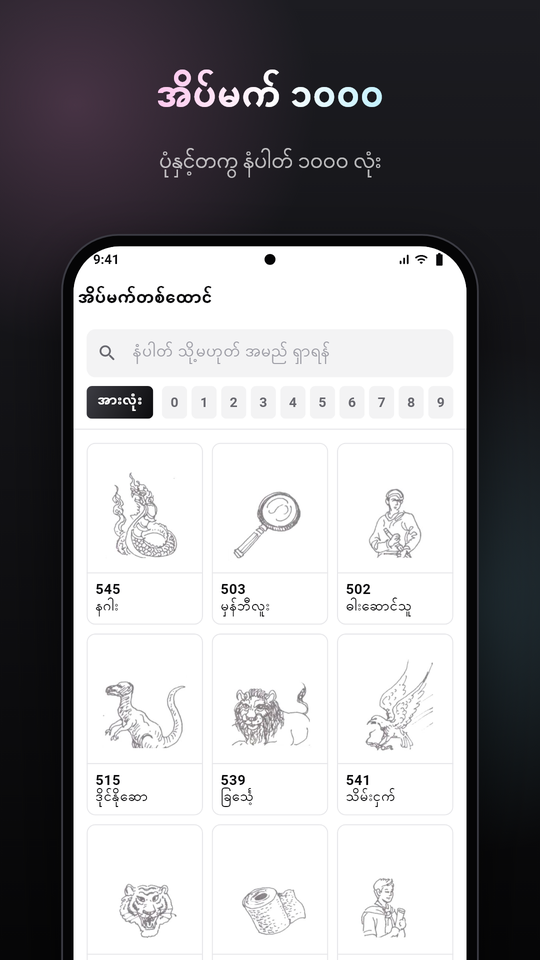
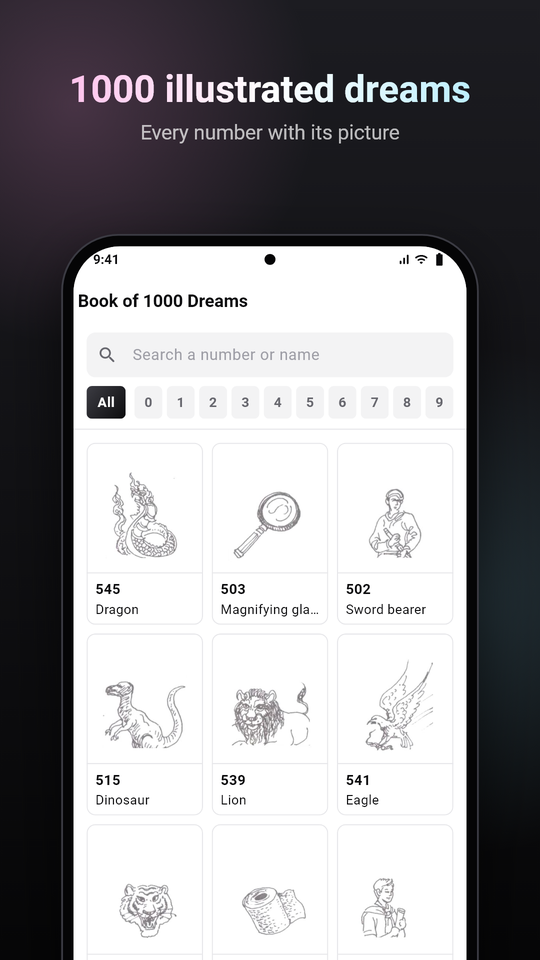
updte

diff --git a/projects/1000-dreams.html b/projects/1000-dreams.html
@@ -4,7 +4,7 @@
   <meta charset="UTF-8">
   <meta name="viewport" content="width=device-width, initial-scale=1">
   <title>1000 Dreams (အိပ်မက် ဟောကိန်း) — Myanmar Dream Book for Android</title>
-  <meta name="description" content="1000 Dreams (အိပ်မက် ဟောကိန်း) is a fast, fully offline Myanmar dream book for Android: 1000 illustrated dreams with lucky numbers, 100 dreams, 100 lucky animals and a 2,600+ reading dream dictionary.">
+  <meta name="description" content="1000 Dreams (အိပ်မက် ဟောကိန်း) is a fast, fully offline Myanmar dream book for Android in English, Myanmar and Thai: 1000 illustrated dreams with lucky numbers, 100 dreams, 100 lucky animals and a 2,600+ reading dream dictionary.">
   <meta name="author" content="A Dev Dude">
   <link rel="canonical" href="https://naymyomhan.github.io/projects/1000-dreams.html">
   <meta name="theme-color" content="#ffffff" media="(prefers-color-scheme: light)">
@@ -13,7 +13,7 @@
   <meta property="og:type" content="website">
   <meta property="og:site_name" content="A Dev Dude">
   <meta property="og:title" content="1000 Dreams (အိပ်မက် ဟောကိန်း) — Myanmar Dream Book">
-  <meta property="og:description" content="1000 illustrated dreams with lucky numbers, 100 dreams, 100 lucky animals and a dream dictionary. Fully offline, no account needed.">
+  <meta property="og:description" content="1000 illustrated dreams with lucky numbers, 100 dreams, 100 lucky animals and a dream dictionary, in English, Myanmar and Thai. Fully offline, no account needed.">
   <meta property="og:url" content="https://naymyomhan.github.io/projects/1000-dreams.html">
   <meta property="og:image" content="https://naymyomhan.github.io/images/1000-dreams-banner.png">
   <meta name="twitter:card" content="summary_large_image">
@@ -61,12 +61,13 @@
               <span class="app-alt-name"><span lang="my">အိပ်မက် ဟောကိန်း</span> &middot; Myanmar Dream Book</span>
             </h1>
             <p class="app-tagline">
-              A fast, fully offline Myanmar dream book for Android. Look up the 1000 illustrated dreams with their lucky numbers,
-              the 100 dreams and 100 lucky animals, and a dream dictionary of 2,600+ readings &mdash; with one search that understands
-              Myanmar words, English names and Myanmar digits.
+              A fast, fully offline Myanmar dream book for Android, in English, Myanmar and Thai. Look up the 1000 illustrated dreams
+              with their lucky numbers, the 100 dreams and 100 lucky animals, and a dream dictionary of 2,600+ readings &mdash; with one
+              search that understands words in all three languages and Myanmar or Thai digits.
             </p>
             <ul class="app-facts" aria-label="At a glance">
               <li class="badge badge-accent">Android</li>
+              <li class="badge">English &middot; <span lang="my">မြန်မာ</span> &middot; <span lang="th">ไทย</span></li>
               <li class="badge">Works offline</li>
               <li class="badge">No account needed</li>
               <li class="badge">Light &amp; dark themes</li>
@@ -114,8 +115,8 @@
             </li>
             <li>
               <figure class="shot">
-                <img src="../images/1000-dreams-screen3.png" alt="Dream detail with its round and up-down numbers" width="540" height="960" loading="lazy" decoding="async">
-                <figcaption>Round &amp; up-down numbers</figcaption>
+                <img src="../images/1000-dreams-screen3.png" alt="Dream detail with its reversed and neighbouring numbers" width="540" height="960" loading="lazy" decoding="async">
+                <figcaption>Reversed &amp; nearby numbers</figcaption>
               </figure>
             </li>
             <li>
@@ -147,17 +148,17 @@
         <div class="section-head">
           <p class="kicker">Features</p>
           <h2 id="features-title">Find a dream and its numbers in seconds</h2>
-          <p>The classic Myanmar dream books, brought together in one clean app with no account, no sign-in and no internet needed for the content.</p>
+          <p>The classic Myanmar dream books, brought together in one clean app in English, Myanmar and Thai &mdash; with no account, no sign-in and no internet needed for the content.</p>
         </div>
         <ul class="feature-grid">
           <li class="card feature">
             <div class="card-icon" aria-hidden="true"><svg class="svg-icon" viewBox="0 0 24 24" fill="none" stroke="currentColor" stroke-width="2" stroke-linecap="round" stroke-linejoin="round"><path d="M20 6 9 17l-5-5"/></svg></div>
             <h3>1000 illustrated dreams</h3>
-            <p>Every dream with its drawing, three-digit number, and Myanmar and English name. Narrow the book down by first digit (0&ndash;9) in one tap.</p>
+            <p>Every dream with its drawing, three-digit number, and its name in English, Myanmar and Thai. Narrow the book down by first digit (0&ndash;9) in one tap.</p>
           </li>
           <li class="card feature">
             <div class="card-icon" aria-hidden="true"><svg class="svg-icon" viewBox="0 0 24 24" fill="none" stroke="currentColor" stroke-width="2" stroke-linecap="round" stroke-linejoin="round"><path d="M20 6 9 17l-5-5"/></svg></div>
-            <h3>Round &amp; up-down numbers</h3>
+            <h3>Reversed &amp; nearby numbers</h3>
             <p>Each dream links to the dreams for every reordering of its digits and for the numbers directly above and below it.</p>
           </li>
           <li class="card feature">
@@ -168,17 +169,17 @@
           <li class="card feature">
             <div class="card-icon" aria-hidden="true"><svg class="svg-icon" viewBox="0 0 24 24" fill="none" stroke="currentColor" stroke-width="2" stroke-linecap="round" stroke-linejoin="round"><path d="M20 6 9 17l-5-5"/></svg></div>
             <h3>Dream dictionary</h3>
-            <p>2,600+ readings grouped by Myanmar letter, with full-text search and highlighted matches.</p>
+            <p>2,600+ dream meanings in English, Myanmar and Thai &mdash; browsed A&ndash;Z, by Myanmar letter or by Thai letter, with full-text search and highlighted matches.</p>
           </li>
           <li class="card feature">
             <div class="card-icon" aria-hidden="true"><svg class="svg-icon" viewBox="0 0 24 24" fill="none" stroke="currentColor" stroke-width="2" stroke-linecap="round" stroke-linejoin="round"><path d="M20 6 9 17l-5-5"/></svg></div>
             <h3>Search everything</h3>
-            <p>One search box across all four books. Type a number in Myanmar digits (<span lang="my">၅၄</span>) or Latin digits (54), or any word.</p>
+            <p>One search box across all four books. Type a number in Latin (54), Myanmar (<span lang="my">၅၄</span>) or Thai (<span lang="th">๕๔</span>) digits, or any word.</p>
           </li>
           <li class="card feature">
             <div class="card-icon" aria-hidden="true"><svg class="svg-icon" viewBox="0 0 24 24" fill="none" stroke="currentColor" stroke-width="2" stroke-linecap="round" stroke-linejoin="round"><path d="M20 6 9 17l-5-5"/></svg></div>
-            <h3>Light &amp; dark themes</h3>
-            <p>A compact, monochrome interface that is easy on the eyes day or night.</p>
+            <h3>Your language, light or dark</h3>
+            <p>Pick English, Myanmar or Thai on first launch and switch any time from the home screen. The compact monochrome design follows your phone&rsquo;s light or dark theme.</p>
           </li>
         </ul>
       </div>
@@ -215,8 +216,9 @@
           <h3>My role</h3>
           <p>
             Creator and lead mobile developer. I built the Flutter app, bundled and parsed the dream data on a background isolate,
-            designed the compact monochrome light &amp; dark interface, wrote the search with Myanmar-digit support, and integrated
-            Google AdMob with frequency-capped placements and Google&rsquo;s consent (UMP) flow.
+            designed the compact monochrome light &amp; dark interface, localised the app and its full dream content into English and
+            Thai, wrote the search with Myanmar- and Thai-digit support, and integrated Google AdMob with frequency-capped placements
+            and Google&rsquo;s consent (UMP) flow.
           </p>
           <p class="note">
             Dream readings and numbers are traditional folklore, provided for cultural reference and entertainment only.
@@ -226,13 +228,13 @@
         <aside class="card info-card" aria-label="App details">
           <dl class="details">
             <div><dt>Platform</dt><dd>Android</dd></div>
-            <div><dt>Language</dt><dd>Myanmar, with English &amp; Thai names</dd></div>
+            <div><dt>Languages</dt><dd>English, Myanmar &amp; Thai</dd></div>
             <div><dt>Content</dt><dd>Bundled, works offline</dd></div>
             <div><dt>Price</dt><dd>Free, ad-supported</dd></div>
             <div><dt>Developer</dt><dd>A Dev Dude</dd></div>
           </dl>
           <h3>Built with</h3>
-          <p class="stack">Flutter &middot; Dart &middot; Bundled offline data &middot; Google AdMob with UMP consent</p>
+          <p class="stack">Flutter &middot; Dart &middot; Bundled offline data &middot; English, Myanmar &amp; Thai &middot; Google AdMob with UMP consent</p>
         </aside>
       </div>
     </section>
@@ -244,7 +246,7 @@
           <div>
             <p class="kicker">Support</p>
             <h2 id="support-title">Questions or feedback?</h2>
-            <p>Spotted a mistake in a reading, found a bug, or have a suggestion? Email the developer &mdash; feedback in Myanmar or English is welcome.</p>
+            <p>Spotted a mistake in a reading, found a bug, or have a suggestion? Email the developer &mdash; feedback in English, Myanmar or Thai is welcome.</p>
             <div class="btn-row">
               <a href="mailto:naymyomhan.developer@gmail.com?subject=1000%20Dreams" class="btn btn-primary">
                 <svg class="svg-icon" viewBox="0 0 24 24" fill="none" stroke="currentColor" stroke-width="2" stroke-linecap="round" stroke-linejoin="round" aria-hidden="true"><rect width="20" height="16" x="2" y="4" rx="2"/><path d="m22 7-8.97 5.7a1.94 1.94 0 0 1-2.06 0L2 7"/></svg>

diff --git a/privacy-policy/1000-dreams.html b/privacy-policy/1000-dreams.html
@@ -49,7 +49,7 @@
 
         <ul class="doc-meta">
           <li>Effective date: <strong>November 17, 2026</strong></li>
-          <li>Last updated: <strong>November 17, 2026</strong></li>
+          <li>Last updated: <strong>November 18, 2026</strong></li>
           <li>Developer: <strong>A Dev Dude</strong></li>
         </ul>
 
@@ -71,6 +71,7 @@
             <li><strong>No Personally Identifiable Information (PII):</strong> We do not collect, store, transmit, or sell personal information such as your name, email address, phone number, contacts, photos, or precise location.</li>
             <li><strong>No accounts:</strong> The app does not require or offer registration or sign-in.</li>
             <li><strong>Searches stay on your device:</strong> Anything you type into the app&rsquo;s search boxes is matched against the content bundled in the app and is never sent to us or to any server.</li>
+            <li><strong>Language choice:</strong> The language you pick (English, Myanmar or Thai) is saved only on your device, so the app opens in it next time. It is never sent to us.</li>
           </ul>
 
           <h3>B. Device permissions</h3>

diff --git a/privacy/1000-dreams.html b/privacy/1000-dreams.html
@@ -49,7 +49,7 @@
 
         <ul class="doc-meta">
           <li>Effective date: <strong>November 17, 2026</strong></li>
-          <li>Last updated: <strong>November 17, 2026</strong></li>
+          <li>Last updated: <strong>November 18, 2026</strong></li>
           <li>Developer: <strong>A Dev Dude</strong></li>
         </ul>
 
@@ -71,6 +71,7 @@
             <li><strong>No Personally Identifiable Information (PII):</strong> We do not collect, store, transmit, or sell personal information such as your name, email address, phone number, contacts, photos, or precise location.</li>
             <li><strong>No accounts:</strong> The app does not require or offer registration or sign-in.</li>
             <li><strong>Searches stay on your device:</strong> Anything you type into the app&rsquo;s search boxes is matched against the content bundled in the app and is never sent to us or to any server.</li>
+            <li><strong>Language choice:</strong> The language you pick (English, Myanmar or Thai) is saved only on your device, so the app opens in it next time. It is never sent to us.</li>
           </ul>
 
           <h3>B. Device permissions</h3>

diff --git a/index.html b/index.html
@@ -173,9 +173,9 @@
               </h3>
               <p class="project-desc">
                 A fast, fully offline Myanmar dream book: 1000 illustrated dreams with lucky numbers, the 100 dreams and 100 lucky animals,
-                and a 2,600+ reading dream dictionary &mdash; with one search that understands Myanmar words and digits.
+                and a 2,600+ reading dream dictionary &mdash; in English, Myanmar and Thai, with one search across all four books.
               </p>
-              <p class="stack">Flutter &middot; Offline data &middot; Myanmar search</p>
+              <p class="stack">Flutter &middot; Offline data &middot; English, Myanmar &amp; Thai</p>
               <div class="project-links">
                 <a href="projects/1000-dreams.html" class="text-link">
                   View project
